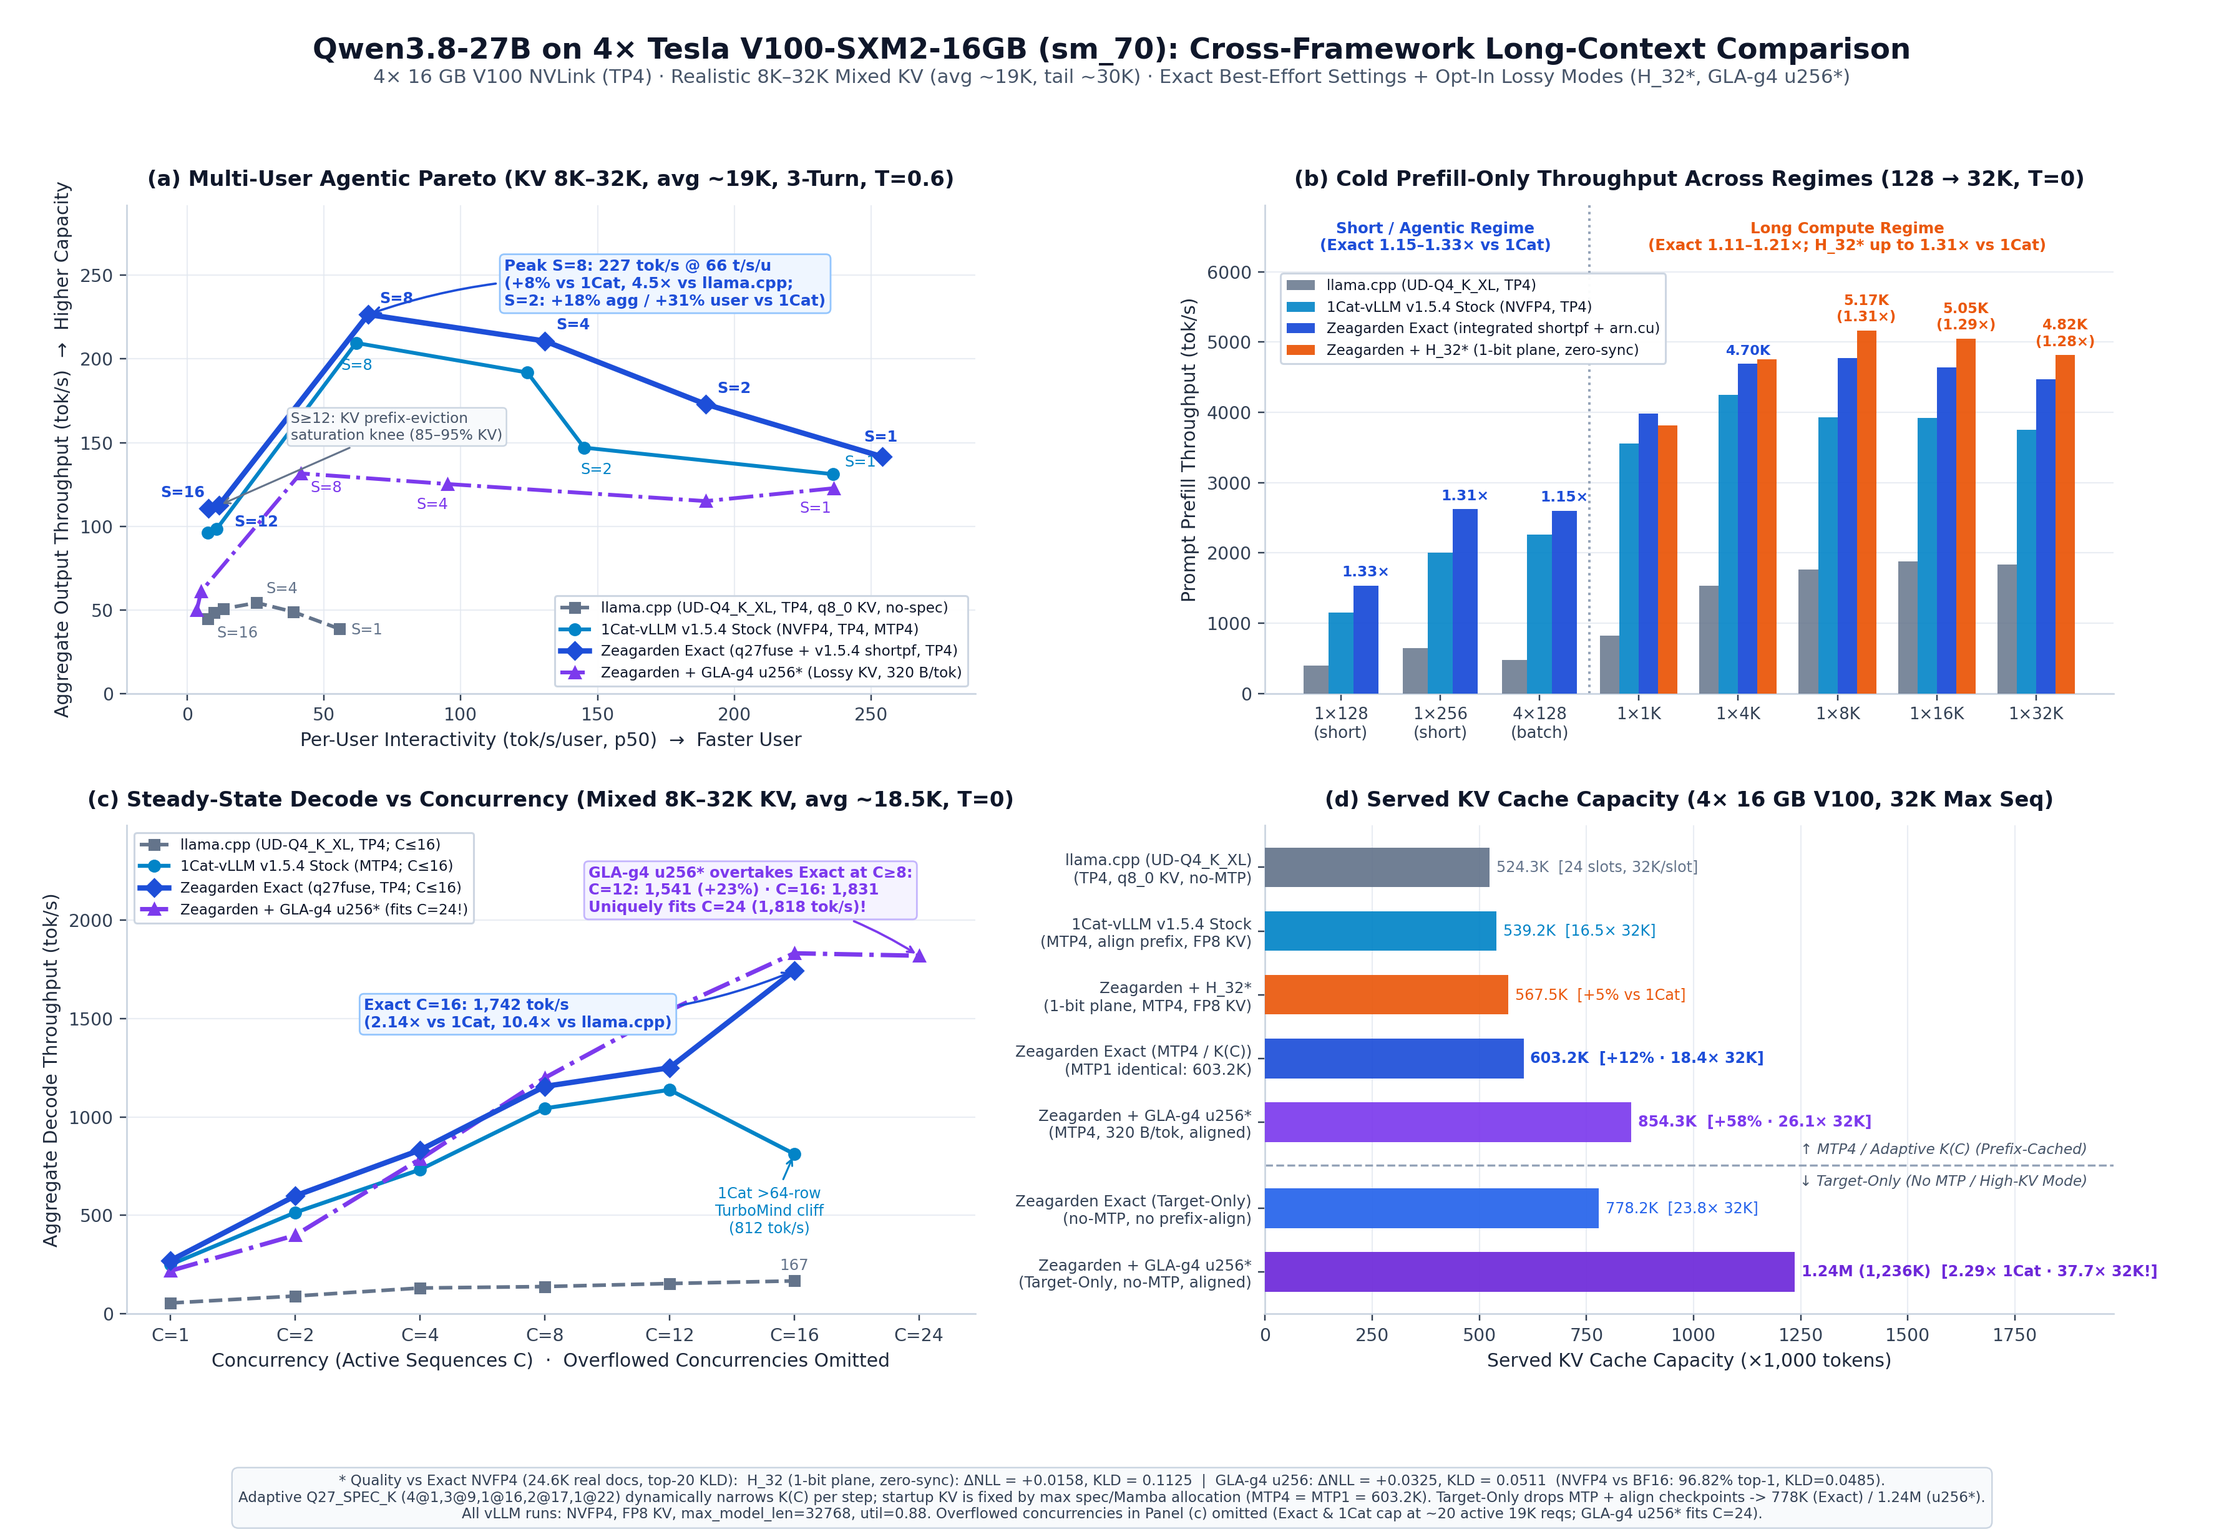
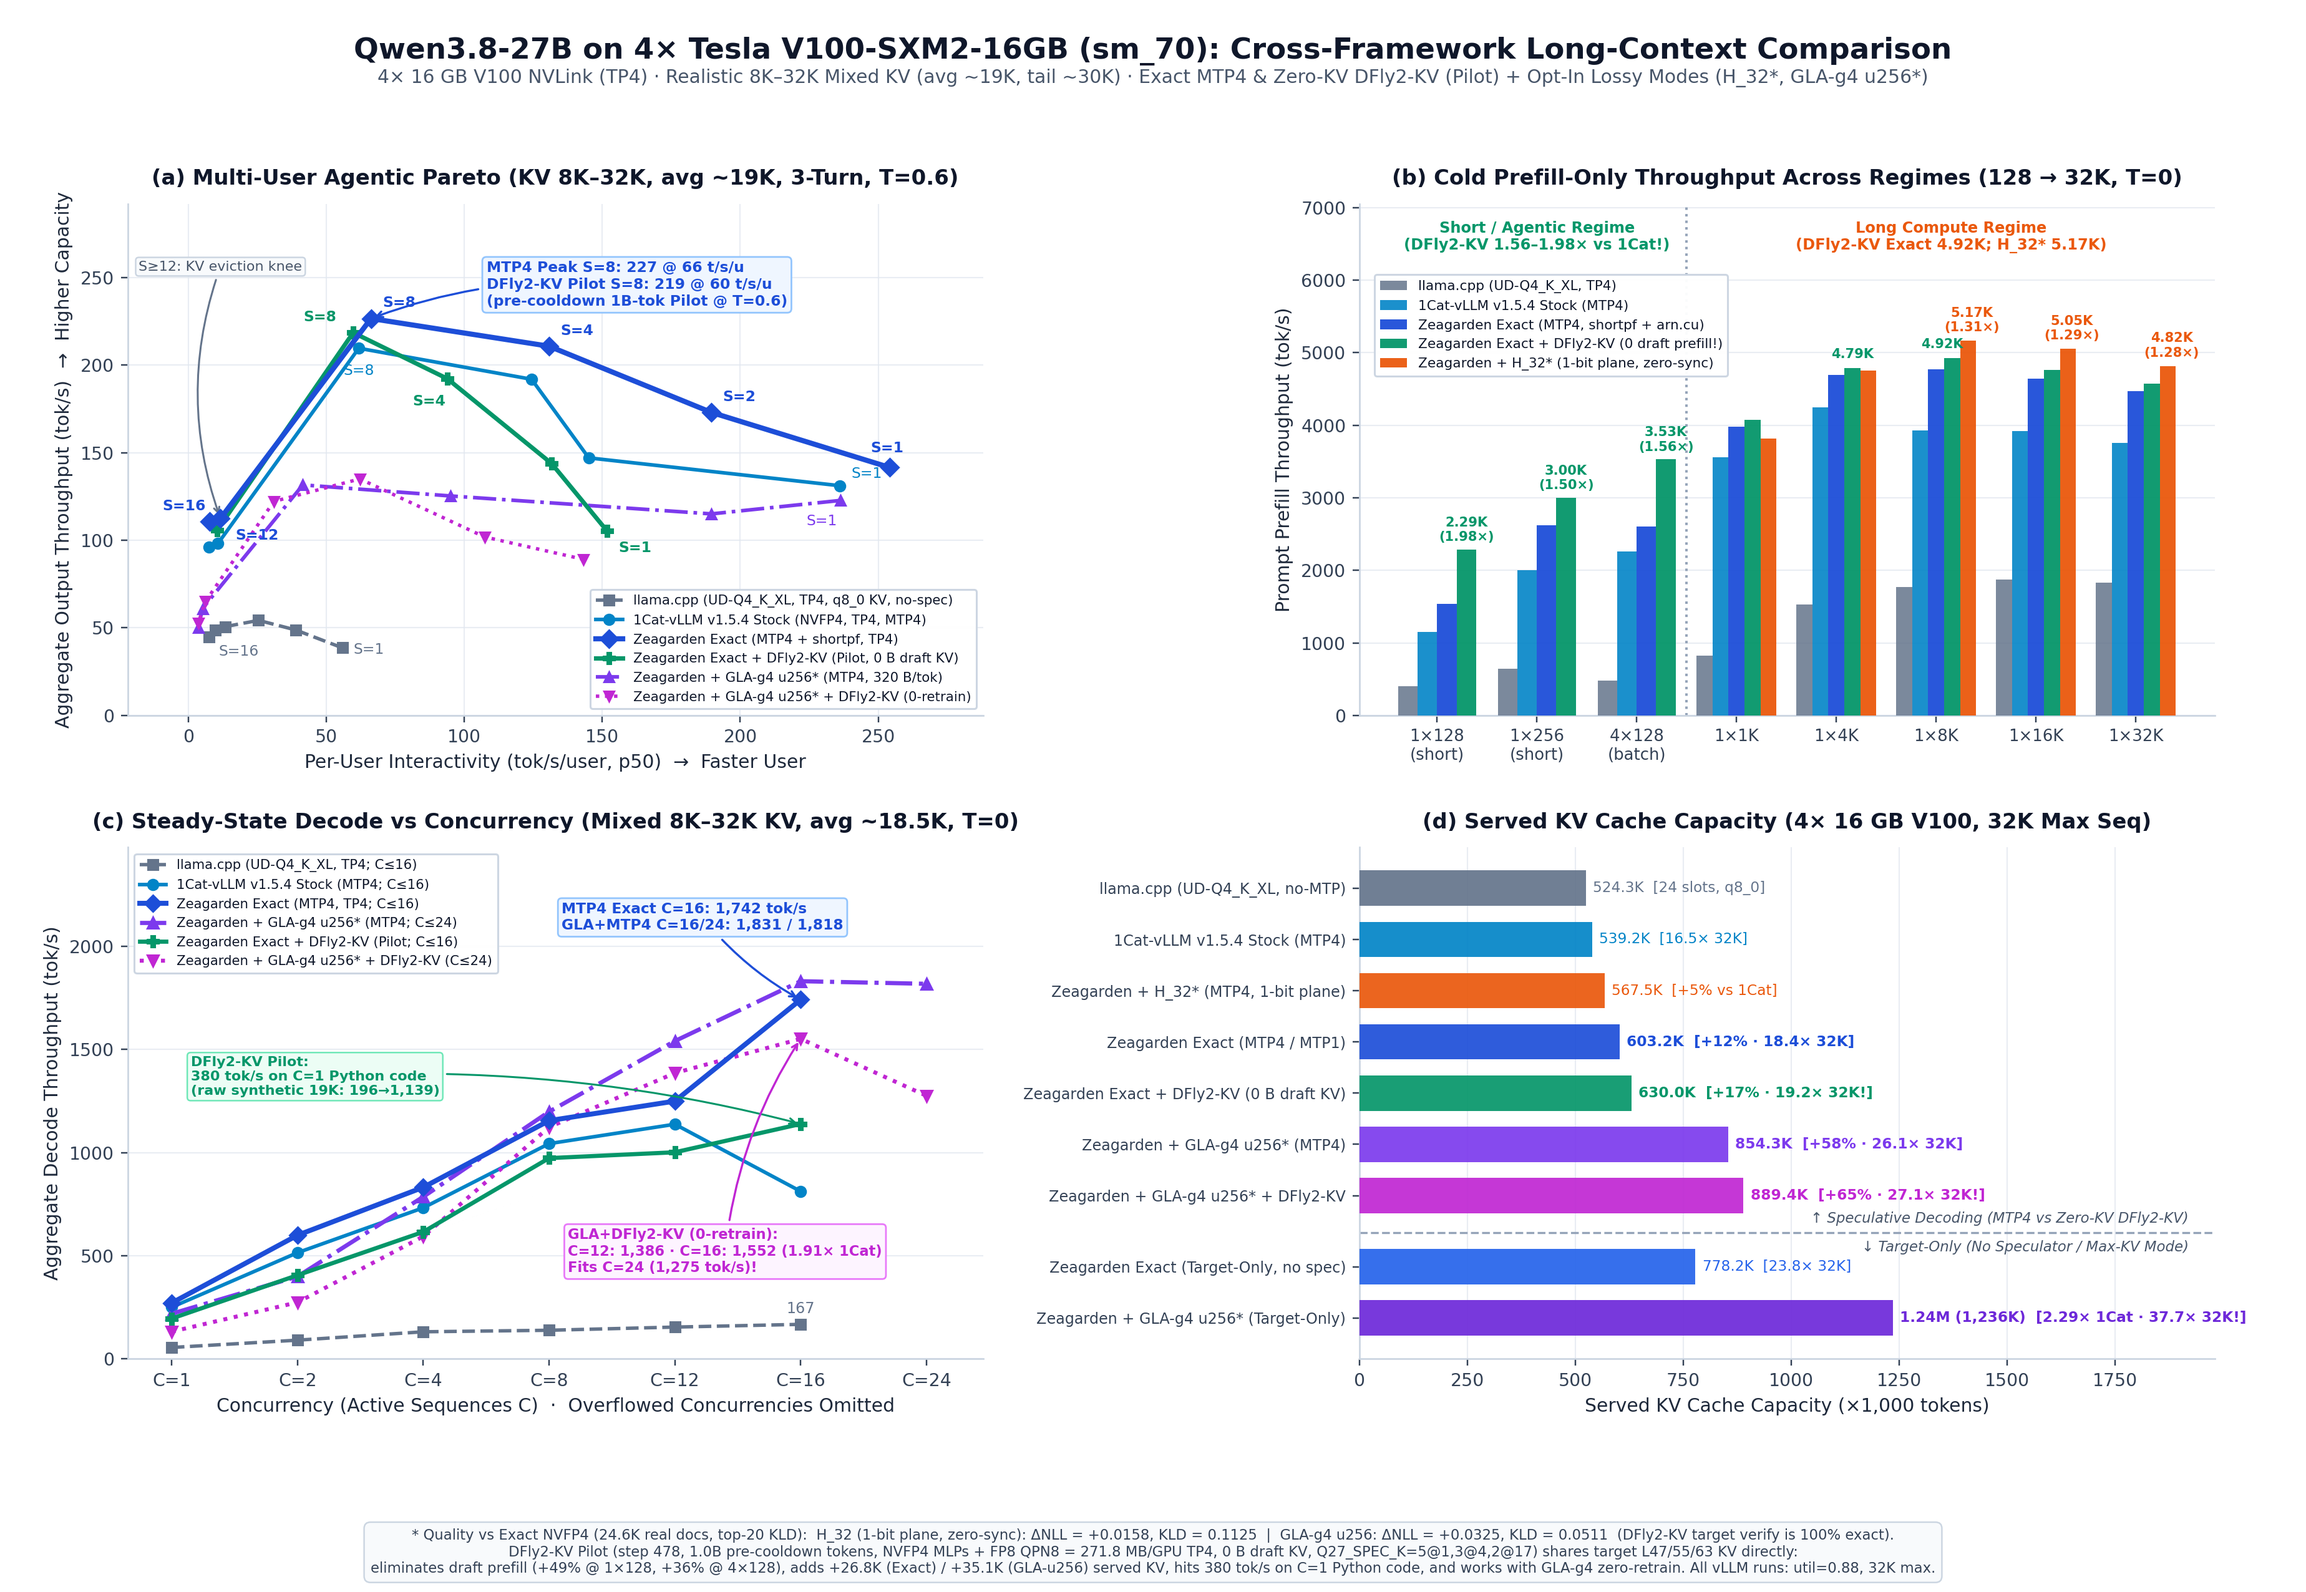
docs(qwen3-27b): add DFly2-KV (Exact and zero-retrain GLA-g4 u256) 8K-32K benchmark results and card

diff --git a/docs/qwen3-27b.md b/docs/qwen3-27b.md
@@ -12,6 +12,10 @@
   - Unified CUDA-graph-safe TP4 reduce-scatter + Gemma norm (`arn.cu`, single `45 MiB/rank` IPC pool, `M = 65..4608`, delegating eager `128..1024` sharded-residual prefills to `1Cat v1.5.4`'s zero-VRAM tiled ARN), direct-register short-M W4/W8 GEMMs (`mlp_short.cu`, `fp8_short.cu` covering `M=195` PIECEWISE MTP graphs), and microbench-tuned cuBLAS `algo 6` / `v1.5.4` FP8 prefill cutovers (`pf_gemm.cu`).
 - **Opt-In Packed Long Prefill (`Q27_PF_PK=1`)**:
   - Online `H_32` Walsh–Hadamard rotation + `INT4 (1, 256)` 3-for-2 mantissa packing + `INT7` activations (`pk_h32.cu`), with optional BF16-guided 1-bit selection plane (`Q27_PF_H32_PLANE`) and a zero-sync device-gated `mod 2^32` Freivalds checksum guard.
+- **Opt-In Zero-KV-Cache `DFly2-KV` Drafter (`Q27_DFLY2_CKPT=<path>`)**:
+  - Replaces the single-layer MTP drafter with a 3-layer block-parallel (`γ = 5`, `block_size = 6`) + sequential `AttentiveCorrection` drafter (`dfly2.py`, `dfly2_ops.cu`) reading target post-RoPE KV directly from Q27 layers `[47, 55, 63]` (**`0 B` draft KV**, zero draft prefill pass!).
+  - Quantized offline via `packages/q27fuse/tools/quantize_dfly2.py` to `NVFP4-FP8` (`271.8 MB/GPU` TP4, NVFP4 MLPs on `mlp_fp4.cu`/`mlp_short.cu` + FP8 QPN8 projections on `fp8_lin.cu`/`fp8_short.cu`, `cos = 0.9990` / `logits cos = 0.99965` live vs BF16 reference across multi-page KV).
+  - Supports FULL CUDA-graph capture per `(B_pad, K)` bucket (`Q27_SPEC_K="5@1,3@4,2@17"`), `draftscreen` top-1 screening, native `K = 5` (`tm = 6`) GDN verify (`gdn_verify.cu`), and **zero-retrain `GLA-g4` compatibility** (`gla_q_absorb` + `attn_gla_mq` LSE + fused `v_up` block merge).
 - **Opt-In TP4-Native `GLA-g4` KV Compression (`Q27_GLA_CKPT=<path>`)**:
   - Compresses all 16 target full-attention layers and `mtp.layers.0` into 1 shared FP8 latent head per GPU (`320 B/tok` for `u256`, `256 B/tok` for `u192`, zero cross-GPU replication), spliced directly into QPN8 `qkv_proj` with compressed hybrid Mamba/Attention page alignment (`Platform.update_block_size_for_backend`) and served by single-read shared-latent `HMMA.884` attention (`attn_gla_mq.cu`).
 
@@ -21,9 +25,13 @@
 |---|---:|---:|---:|---:|---|
 | `llama.cpp` (`UD-Q4_K_XL`, `TP4`, `q8_0`) | `39 @ 56 / 49 @ 39 / 51 @ 13` | `402 / 477 / 1,768 / 1,877 / 1,834 tok/s` | `55 / 139 / 154 / 167 / — tok/s` | `524K` *(no-MTP)* | Size-matched GGUF (no NVFP4) |
 | Stock `1Cat-vLLM v1.5.4` (`NVFP4`, `MTP4`) | `131 @ 236 / 147 @ 145 / 210 @ 62` | `1,153 / 2,259 / 3,929 / 3,923 / 3,755 tok/s` | `251 / 1,043 / 1,137 / 812 / — tok/s` | `539K` (`16.5× 32K`) | Exact NVFP4 (`96.82%` top-1, `KLD=0.0485` vs BF16) |
-| **`Zeagarden` Exact (`q27fuse`, integrated shortpf)** | **`142 @ 254 / 173 @ 190 / 227 @ 66`** | **`1,534 / 2,599 / 4,769 / 4,642 / 4,469 tok/s`** | **`271 / 1,155 / 1,250 / 1,742 / — tok/s`** | **`603K`** (`MTP4/MTP1`) / **`778K`** *(Target-Only)* | 100% greedy exact vs NVFP4 |
+| **`Zeagarden` Exact (`MTP4`, integrated shortpf)** | **`142 @ 254 / 173 @ 190 / 227 @ 66`** | `1,534 / 2,599 / 4,769 / 4,642 / 4,469 tok/s` | **`271 / 1,155 / 1,250 / 1,742`** `/ — tok/s` | `603K` (`MTP4/MTP1`) / **`778K`** *(Target-Only)* | 100% greedy exact vs NVFP4 |
+| **`Zeagarden` Exact + `DFly2-KV` (Pilot, 0-KV)** | `105 @ 152 / 144 @ 132 / 219 @ 60` | **`2,286 / 3,528 / 4,925 / 4,760 / 4,576 tok/s`** | `196 / 973 / 1,002 / 1,139 / — tok/s` *(380 tok/s Python code)* | **`630K`** (`+17%` vs Stock, `19.2× 32K`) | 100% exact verify (`NVFP4-FP8`, `272 MB/GPU`, `0 B` draft KV) |
 | **`Zeagarden` + `H_32`\* (1-bit plane, zero-sync)** | *(exact `<1K`)* | *(exact `<1K`)* / **`5,166 / 5,051 / 4,817 tok/s`** (`1.31×`) | *(same as Exact)* | `567K` (`+5%`) | `ΔNLL = +0.0158`, `KLD = 0.1125` |
-| **`Zeagarden` + `GLA-g4 u256`\*** | `123 @ 236 / 115 @ 190 / 132 @ 41` | `1,391 / 2,826 / 4,322 / 3,689 / 3,120 tok/s` | `219 /` **`1,198 / 1,541 / 1,831 / 1,818 tok/s`** | **`854K`** (`MTP4`) / **`1.24M`** *(Target-Only)* | `ΔNLL = +0.0325`, `KLD = 0.0511` |
+| **`Zeagarden` + `GLA-g4 u256`\* (`MTP4`)** | `123 @ 236 / 115 @ 190 / 132 @ 41` | `1,391 / 2,826 / 4,322 / 3,689 / 3,120 tok/s` | `219 /` **`1,198 / 1,541 / 1,831 / 1,818 tok/s`** | `854K` (`MTP4`) / **`1.24M`** *(Target-Only)* | `ΔNLL = +0.0325`, `KLD = 0.0511` |
+| **`Zeagarden` + `GLA-g4 u256`\* + `DFly2-KV`** | `89 @ 143 / 102 @ 107 / 122 @ 31` | **`2,368`** `/ 3,386 / 4,472 / 3,819 / 3,241 tok/s` | `132 / 1,123 / 1,386 / 1,552 / 1,275 tok/s` | **`889K`** (`+65%` vs Stock, `27.1× 32K`) | Zero-retrain GLA absorption (`ΔNLL = +0.0325`, `KLD = 0.0511`) |
+
+> Note: `DFly2-KV` results above use the **WSD Pilot checkpoint (`step 478`, `1.0B` pre-cooldown tokens)**. Because it shares target KV with zero draft prefill, it sets new Exact cold-prefill records across all 8 regimes (`1.56–1.98×` short prefill vs Stock `1Cat`), adds `+26.8K` (Exact) / `+35.1K` (GLA-u256) served KV, and reaches `380.1 tok/s` on single-user `T=0` Python code generation, while trailing 100B-pretrained `MTP4` on `T=0.6` greedy-draft agentic and synthetic raw completions until a post-cooldown checkpoint is swapped in.
 
 ![Qwen3.8-27B cross-framework performance card](assets/qwen3_27b_performance.png)
 
@@ -35,11 +43,13 @@
 |---|---|---|
 | `Q27_FUSE` | `0` | Master switch (`1` enables the plugin; `0` leaves `1Cat-vLLM` untouched). |
 | `Q27_ARN` | `1` | Unified TP4 all-reduce + Gemma norm (`arn.cu`, `M = 65..4608`); `0` falls back to 1Cat. |
-| `Q27_SPEC_K` | `""` | Adaptive MTP draft lengths by concurrency (`4@1,3@9,1@16,2@17,1@22` on `v1.5.4`). |
+| `Q27_SPEC_K` | `""` | Adaptive draft lengths by concurrency (`4@1,3@9,1@16,2@17,1@22` for MTP4; `5@1,3@4,2@17` for DFly2-KV). |
+| `Q27_DFLY2_CKPT` | `""` | Opt-in DFly2-KV drafter directory or `.safetensors` (`NVFP4-FP8`, `FP8`, or `BF16`; requires `num_speculative_tokens=5`). |
+| `Q27_DFLY2_HEAD` | `auto` | DFly2-KV Stage C top-1 head (`auto` uses `draftscreen` when enabled; `exact` forces `HeadCopy.top1`). |
 | `Q27_SPF` | `1` | Exact short/agentic W4/W8 GEMMs (`mlp_short.cu`, `fp8_short.cu`); `0` disables. |
-| `Q27_DS` | `1` | Rotated 1-bit MTP draft screen (`draft_screen.cu`); `0` falls back to stock draft head. |
+| `Q27_DS` | `1` | Rotated 1-bit draft screen (`draft_screen.cu`); `0` falls back to stock/exact draft head. |
 | `Q27_PF_PK` | `0` | Opt-in packed `H_32` long-prefill MLP (`1`, plus optional `Q27_PF_H32_PLANE=weights/qwen3-27b/h32_planes` for 1-bit BF16 plane; unset uses zero-plane). |
-| `Q27_GLA_CKPT` | `""` | Opt-in TP4-native `GLA-g4` projectors (`weights/qwen3-27b/gla_g4_u256_qo_mtp.safetensors` or `gla_g4_u192_qo_mtp.safetensors`). |
+| `Q27_GLA_CKPT` | `""` | Opt-in TP4-native `GLA-g4` projectors (`weights/qwen3-27b/gla_g4_u256_qo_mtp.safetensors` or `gla_g4_u192_qo_mtp.safetensors`; zero-retrain compatible with `Q27_DFLY2_CKPT`). |
 | `Q27_FUSE_BUILD` | `~/.cache/q27fuse/build` | Directory prefix for compiled CUDA extensions. |
 
 Prebuilt LFS artifacts live under [`weights/qwen3-27b/`](../weights/qwen3-27b/) (`gla_g4_u256_qo_mtp.safetensors`, `gla_g4_u192_qo_mtp.safetensors`, `h32_planes/h32_planes_r{0..3}.safetensors`). Launch helper: [`packages/q27fuse/tools/serve_q27.sh`](../packages/q27fuse/tools/serve_q27.sh).
